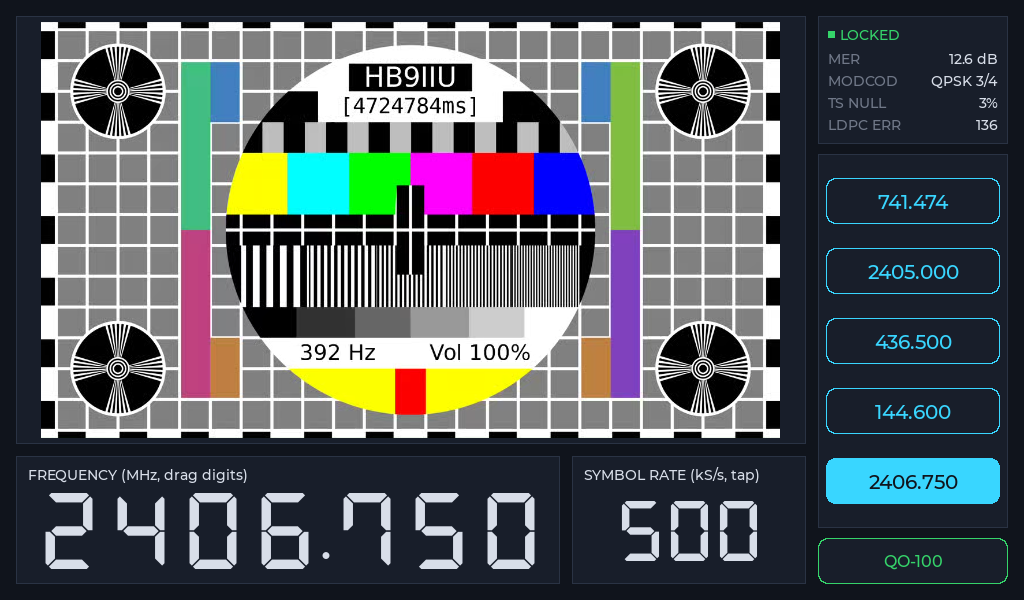
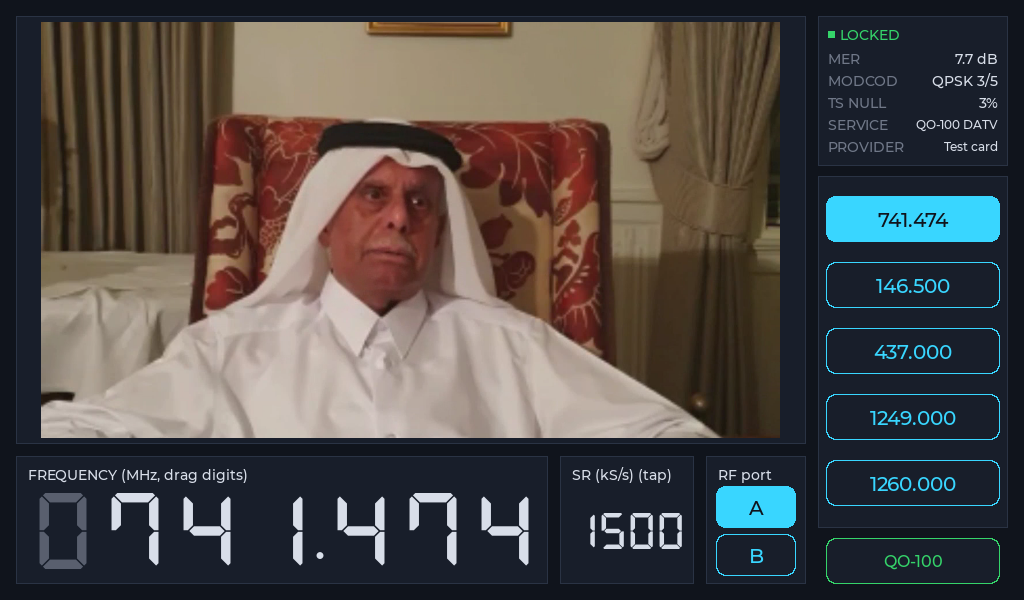
README: What's new - Frequency Offset Calibration and the second RF input (A/B); refreshed TUNE screenshot, new calibration screenshot; screenshot aid: readme sample mode

diff --git a/qo100_sdl/src/main.cpp b/qo100_sdl/src/main.cpp
@@ -6300,21 +6300,25 @@ int main(int argc, char ** argv)
         else if(app_page == AppPage::Tune) {
             /* QO100_SCREENSHOT_SAMPLE=1: fill the status card with sample values
              * (long names included) so its layout can be checked without a signal. */
-            if(const char * sample = std::getenv("QO100_SCREENSHOT_SAMPLE"); sample != nullptr && sample[0] == '1') {
+            const char * sample = std::getenv("QO100_SCREENSHOT_SAMPLE");
+            const bool sample_long = sample != nullptr && sample[0] == '1';
+            const bool sample_readme = sample != nullptr && std::strcmp(sample, "readme") == 0;
+            if(sample_long || sample_readme) {
                 receiver_status.demod_state = 4;
                 receiver_status.mer_x10 = 77;
                 receiver_status.modcod = 5;
                 receiver_status.null_packet_percent = 3;
-                receiver_status.service_name = "F8TRT_Pascal_Long_Name";
-                receiver_status.service_provider = "Radio Club de Test";
+                /* "1": long names (checks truncation) plus the save toast;
+                 * "readme": tidy values for the README picture. */
+                receiver_status.service_name = sample_long ? "F8TRT_Pascal_Long_Name" : "QO-100 DATV";
+                receiver_status.service_provider = sample_long ? "Radio Club de Test" : "Test card";
             }
             draw_tune_page(renderer, text, display.width, display.height, TouchState{},
                            tune_digits, tune_sr_index, tune_rf_port,
                            video_texture, have_video_frame,
                            video_source_width, video_source_height, video_notice, 0.0,
                            receiver_status, tune_presets,
-                           std::getenv("QO100_SCREENSHOT_SAMPLE") != nullptr ? "Pre-set Saved"
-                                                                             : std::string(),
+                           sample_long ? "Pre-set Saved" : std::string(),
                            0.2);
         }
         else {

diff --git a/README.md b/README.md
@@ -20,6 +20,73 @@ touch — no keyboard or mouse needed once it's set up.
 
 # 🆕 WHAT'S NEW!!!
 
+## Frequency Offset Calibration — no more entering offsets by hand
+
+You no longer have to work out your LNB's frequency error and type an offset
+into the settings yourself. The receiver now **measures it by itself**, using
+the QO-100 wideband beacon (which sits at exactly 10491.500 MHz) as the
+reference, and uses the result for all tuning and for the spectrum.
+
+<img src="assets/calibration_page.png" alt="Frequency Offset Calibration page with both corrections found" width="70%">
+
+**Why it matters.** Every LNB's oscillator is a few tens of kHz away from its
+nominal 9750 MHz (a typical one: about +30 kHz). Wide signals still lock, but
+the narrowest QO-100 signals have a lock window of only tens of kHz, so an
+uncorrected error can stop them locking at all. With the correction in place,
+tapping a signal on the spectrum tunes the MiniTiouner to where that signal
+really arrives.
+
+**Two corrections, measured one after the other:**
+
+1. **LNB oscillator** — measured with the MiniTiouner. Each measurement tunes
+   away from the beacon and locks onto it again from scratch; ten of them are
+   combined into the result.
+2. **RTL-SDR display shift** — only if you use a local RTL-SDR for the
+   spectrum. The page also measures how far that spectrum is shifted and shifts
+   it back onto the true frequency axis. It shows how much of the shift is your
+   stick's own error and how much is the LNB's.
+
+**How to run it**
+
+- **At startup**, if nothing has been calibrated yet, the app asks
+  *CALIBRATION NEEDED* — tap **CALIBRATE**. It asks at most once per run.
+- **Any time later:** **SET** → **LNB CAL** → **START** (it says **REDO** once
+  you have a calibration).
+- It takes about a minute and a half (about two minutes with the RTL-SDR
+  step). The video and the spectrum pause while it runs, and the beacon must
+  be receivable.
+- For the best result, **measure after the LNB has been powered for 15–30
+  minutes** — the oscillator drifts while it warms up, so a repeat
+  measurement a couple of kHz away from the first is normal.
+- **SET** now shows the LNB LO as a read-only value (*calibrated*, or *nominal
+  – not calibrated* if you have not run it yet); the manual −/+ editor is gone.
+
+**Existing installations:** just update as usual. The first time the app
+starts it offers to calibrate.
+
+## Second RF input: A / B
+
+The MiniTiouner has two RF inputs, and you can now choose between them on the
+**TUNE** page with the new **RF port** buttons, next to the symbol rate.
+
+- **A** is the top connector — the default, and where your QO-100 LNB
+  belongs. **B** is the bottom connector.
+- **Each favourite remembers its port.** Tapping a favourite switches the
+  port as well as the frequency; pressing and holding one saves the current
+  port with it. The port button matching the selected favourite lights up.
+- **Everything on the QO-100 side always uses A:** the beacon, tapping the
+  spectrum, SCAN, the calibration, and the **QO-100** button, which brings
+  you back to the beacon on port A.
+- **On port B there is no LNB**, so the number on the dial is the real
+  frequency (for example 437.000), not an IF. The LNB bias voltage setting is
+  not changed by the port choice.
+- **New default favourites:** the QO-100 beacon (A), then the DATV calling
+  frequencies **146.500 MHz** (2 m), **437.000 MHz** (70 cm), **1249.000 MHz**
+  and **1280.000 MHz** (23 cm) on B. They only apply to a fresh install: the
+  favourites you already have keep working and stay on port A.
+
+<img src="assets/tune_page.png" alt="TUNE page with the RF port buttons A and B" width="70%">
+
 ## Manual Tune
 
 A new **TUNE** page lets you dial in any frequency the MiniTiouner can
@@ -36,7 +103,7 @@ signal, or anything else off the beaten path.
 - **Tap the Symbol Rate** to cycle through the standard rates.
 - **Presets** (the row of frequency buttons): tap one to load it
   instantly, or **press and hold** one to save whatever you're currently
-  tuned to into that slot — a "SAVED ..." banner confirms it.
+  tuned to into that slot — a "Pre-set Saved" banner confirms it.
 - **Tap the picture** to go fullscreen, tap it again to come back.
 - Tap **QO-100** to leave the Tune page — this always retunes straight
   back to the beacon, so you can't wander off and lose track of where you
@@ -182,7 +249,8 @@ before rebuilding), safe to re-run any time.
 - The small **L** or **R** marker on the spectrum identifies the selected
   source: local RTL-SDR or remote BATC.
 - **CHAT** — opens the QO-100 wideband chat.
-- **SET** — LNB settings (local oscillator offset, bias voltage), screen
+- **SET** — LNB bias voltage and the frequency offset calibration
+  (**LNB CAL**), screen
   resolution, what **EXIT** does (see below), and whether the app auto
   starts at boot. The **SET** page's own **EXIT** button just closes
   the SET page and returns to the main screen — a different action from
